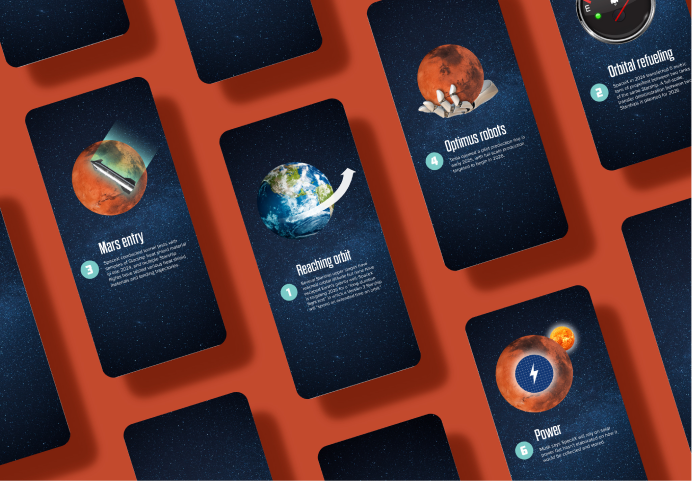
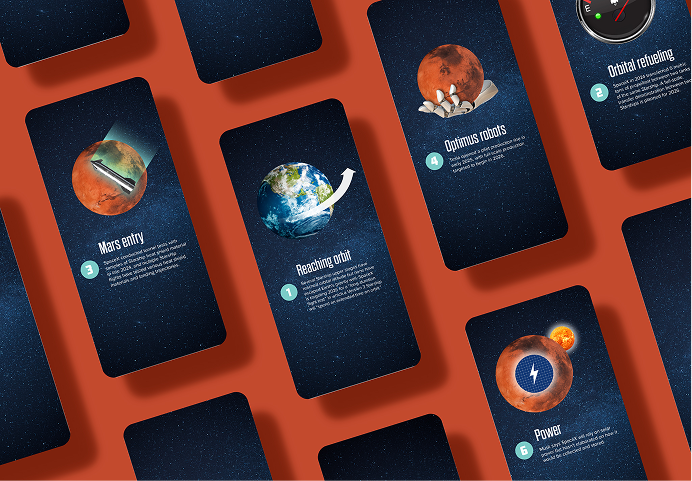
tweaks on pub page

diff --git a/src/components/PublicationsCarousels.tsx b/src/components/PublicationsCarousels.tsx
@@ -6,7 +6,7 @@ import type {
   WheelEvent as ReactWheelEvent,
 } from 'react';
 import {
-  aerospaceSpotlightImages,
+  aerospaceSpotlightSlides,
   flagshipPublications,
 } from '../data/publications';
 
@@ -279,7 +279,8 @@ export function FlagshipPublications() {
 
 export function AerospaceSpotlight() {
   const { activeIndex, setActiveIndex, goPrevious, goNext, gestureProps } =
-    useGestureCarousel(aerospaceSpotlightImages.length);
+    useGestureCarousel(aerospaceSpotlightSlides.length);
+  const slide = aerospaceSpotlightSlides[activeIndex];
 
   return (
     <section
@@ -288,14 +289,30 @@ export function AerospaceSpotlight() {
     >
       <div className="mx-auto grid max-w-[1580px] items-center gap-fluid-8 lg:grid-cols-2">
         <div>
-          <div className="aspect-[721/505] w-full overflow-hidden bg-cream-dark">
+          <div className="relative aspect-[721/505] w-full overflow-hidden bg-cream-dark">
+            {slide.background && (
+              <img
+                src={slide.background}
+                alt=""
+                className="absolute inset-0 h-full w-full object-cover"
+                width="721"
+                height="505"
+                loading="lazy"
+                draggable="false"
+                aria-hidden="true"
+              />
+            )}
             <img
-              key={aerospaceSpotlightImages[activeIndex]}
-              src={aerospaceSpotlightImages[activeIndex]}
-              alt={`Aerospace America campaign example ${activeIndex + 1}`}
-              className="publication-carousel-frame h-full w-full object-cover"
-              width="722"
-              height="505"
+              key={slide.image}
+              src={slide.image}
+              alt={slide.alt}
+              className={`publication-carousel-frame ${
+                slide.imageClassName
+                  ? `absolute max-w-none drop-shadow-[7px_14px_7px_rgba(0,0,0,0.4)] ${slide.imageClassName}`
+                  : 'h-full w-full object-cover'
+              }`}
+              width={slide.imageClassName ? '4096' : '722'}
+              height={slide.imageClassName ? '3072' : '505'}
               loading="lazy"
               draggable="false"
             />
@@ -308,7 +325,7 @@ export function AerospaceSpotlight() {
             />
             <Pagination
               activeIndex={activeIndex}
-              count={aerospaceSpotlightImages.length}
+              count={aerospaceSpotlightSlides.length}
               label="Select an Aerospace America campaign image"
               onSelect={setActiveIndex}
             />

diff --git a/src/data/publications.ts b/src/data/publications.ts
@@ -15,6 +15,13 @@ export interface Magazine {
   texture: string;
 }
 
+export interface AerospaceSpotlightSlide {
+  image: string;
+  alt: string;
+  background?: string;
+  imageClassName?: string;
+}
+
 const publicationImagePath = '/images/verticals/publications';
 
 export const flagshipPublications: FlagshipPublication[] = [
@@ -53,11 +60,38 @@ export const flagshipPublications: FlagshipPublication[] = [
   },
 ];
 
-export const aerospaceSpotlightImages = Array.from(
-  { length: 6 },
-  (_, index) =>
-    `${publicationImagePath}/aerospace/spotlight-${String(index + 1).padStart(2, '0')}.png`
-);
+export const aerospaceSpotlightSlides: AerospaceSpotlightSlide[] = [
+  {
+    image: `${publicationImagePath}/aerospace/spotlight-01.png`,
+    alt: 'Aerospace America digital campaign shown on mobile devices',
+  },
+  {
+    image: `${publicationImagePath}/aerospace/spotlight-06.png`,
+    alt: 'Aerospace America presentation shown in an auditorium',
+  },
+  {
+    image: `${publicationImagePath}/aerospace/spotlight-hydrogen.png`,
+    alt: 'Aerospace America hydrogen feature magazine spread',
+    background: `${publicationImagePath}/bg-wood-warm.jpg`,
+    imageClassName: 'left-[-17.76%] top-[-19.81%] h-[139.7%] w-[130.36%]',
+  },
+  {
+    image: `${publicationImagePath}/aerospace/spotlight-staying-alive.png`,
+    alt: 'Aerospace America Staying Alive feature magazine spread',
+    background: `${publicationImagePath}/bg-wood-warm.jpg`,
+    imageClassName: 'left-[-19.94%] top-[-19.1%] h-[139.77%] w-[130.43%]',
+  },
+  {
+    image: `${publicationImagePath}/aerospace/spotlight-05.png`,
+    alt: 'Aerospace America Mars digital campaign cards',
+  },
+  {
+    image: `${publicationImagePath}/aerospace/spotlight-monster.png`,
+    alt: 'Aerospace America Monster feature magazine spread',
+    background: `${publicationImagePath}/bg-wood-warm.jpg`,
+    imageClassName: 'left-[-20.06%] top-[-19.85%] h-[139.7%] w-[130.36%]',
+  },
+];
 
 const textures = [
   `${publicationImagePath}/bg-marble-white.jpg`,
